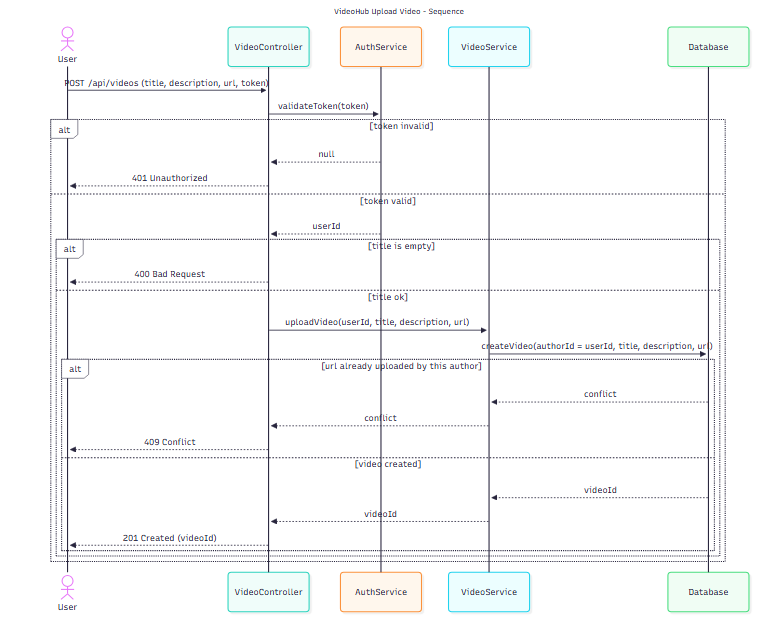
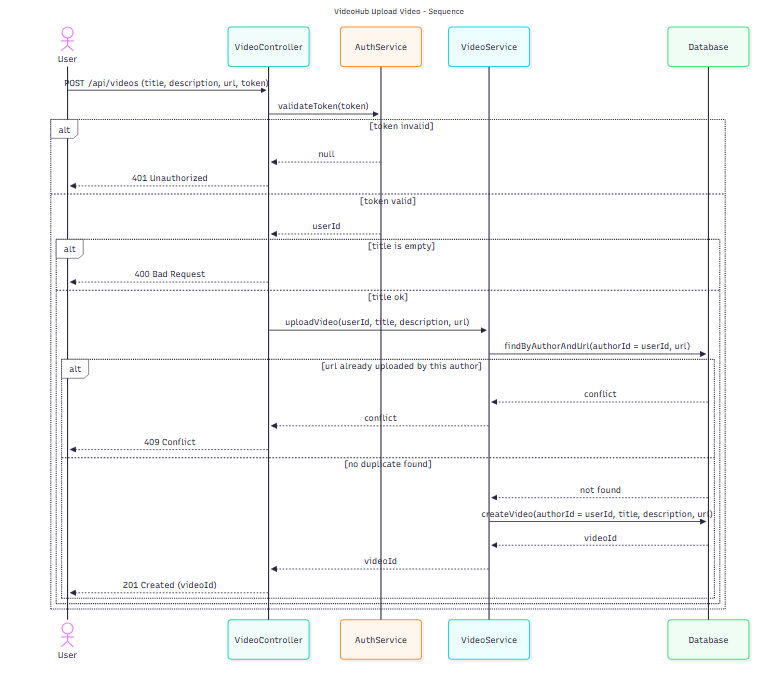
lab3: spec+model - explicit dedup check step + sharpened criteria

diff --git a/Labs/lab3-sequence/spec.md b/Labs/lab3-sequence/spec.md
@@ -28,9 +28,9 @@ UC3: Upload Video (з Lab 2)
 3. alt: токен невалідний -> AuthService повертає null, контролер відповідає 401
 4. alt: токен валідний -> повертає userId (дійде до Video.authorId з ER)
 5. alt: title порожній -> 400 Bad Request (валідація контролера, до сервісу не доходить)
-6. uploadVideo -> createVideo(authorId = userId, title, description, url)
+6. uploadVideo -> findByAuthorAndUrl(authorId = userId, url) — явний крок перевірки бізнес-правила дедупу (ADR-003: правило рівня застосунку — перевіряє сервіс, а не UNIQUE-обмеження БД)
 7. alt: (authorId, url) вже існує -> Database повертає conflict, користувачу 409
-8. else: Database повертає videoId -> VideoController відповідає 201 Created (videoId)
+8. else: не знайдено -> createVideo(authorId = userId, ...) -> Database повертає videoId -> VideoController відповідає 201 Created (videoId)
 
 ## Бізнес-правило для 409
 
@@ -41,6 +41,8 @@ UC3: Upload Video (з Lab 2)
 - [x] Діаграма деталізує UC3 з Lab 2 (учасники, кроки, include UC9)
 - [x] Учасники узгоджені з ER-моделлю (Video entity, authorId = userId)
 - [x] Реалістичні назви викликів (validateToken, uploadVideo, createVideo)
-- [x] Альтернативні гілки (alt/else); гілки помилок завершують сценарій, а не продовжують його
+- [x] Альтернативні гілки (alt/else); гілки помилок ТЕРМІНАЛЬНІ (alt, не opt — opt не обриває сценарій)
+- [x] Кроки бізнес-правил — явні повідомлення: дедуп-перевірка findByAuthorAndUrl перед createVideo, а не неявний конфлікт БД
 - [x] Return-повідомлення для викликів
 - [x] Гілки помилок: 401, 400, 409 + успіх 201
+- [x] Компоненти — окремі lifelines (не один "Server"); validateToken один виклик перед розгалуженням
